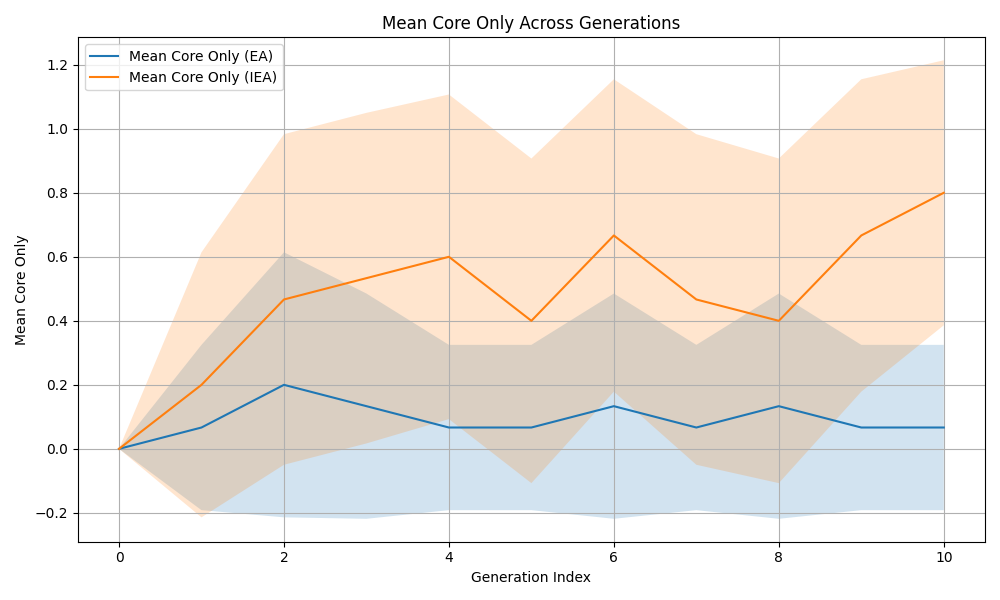
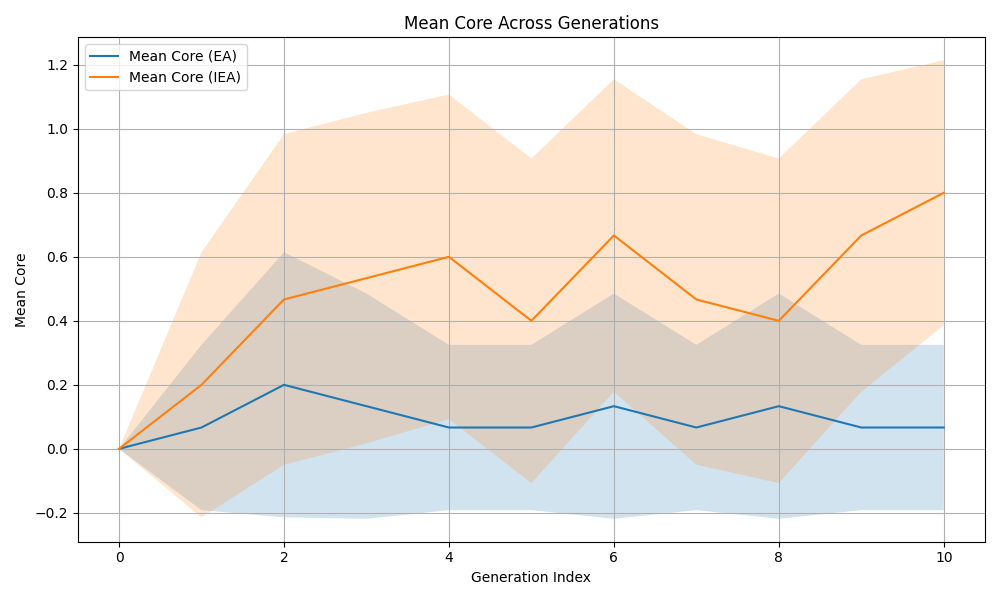
Yet another plots fix

Changed region(s): [[0.372, 0.03, 0.682, 0.06], [0.186, 0.06, 0.279, 0.15], [0.0, 0.39, 0.031, 0.57]]

diff --git a/vr/db/compute_morph_descriptors.py b/vr/db/compute_morph_descriptors.py
@@ -94,7 +94,7 @@ def plot_measure_across_databases(db_paths, labels, measure_names, start_id, end
 
         # Plotting
         plt.figure(figsize=(10, 6))
-        title = measure_name.replace('num', 'number_of').replace('_', ' ').replace('ratio', '').title().replace('Of', 'of')
+        title = measure_name.replace('num', 'number_of').replace('_ratio', '').replace('_only', '').replace('_', ' ').title().replace('Of', 'of')
         for label, group_data in combined_data.groupby('label'):
             # Plot mean measure with shading for standard deviation for each database
             plt.plot(
@@ -128,8 +128,7 @@ def main():
     labels = ["IEA", "EA"]
     # I'm using num_modules instead of size bc they look the same except size is
     # a ratio from 0 to 1 whereas num_modules is 1-20
-    measure_names = ["branching", "limbs", "length_of_limbs", "coverage", "symmetry", "size", "num_modules", 
-                     "core_only", "mixed", "active_hinges_ratio", "bricks_ratio"]
+    measure_names = ["core_only","active_hinges_ratio", "bricks_ratio"]
     #start_id = 34
     #end_id = 66
     folders = ["maximize_size", "passive_hinge_combo", "maximize_passive_bricks", "less_than_10_modules"]
